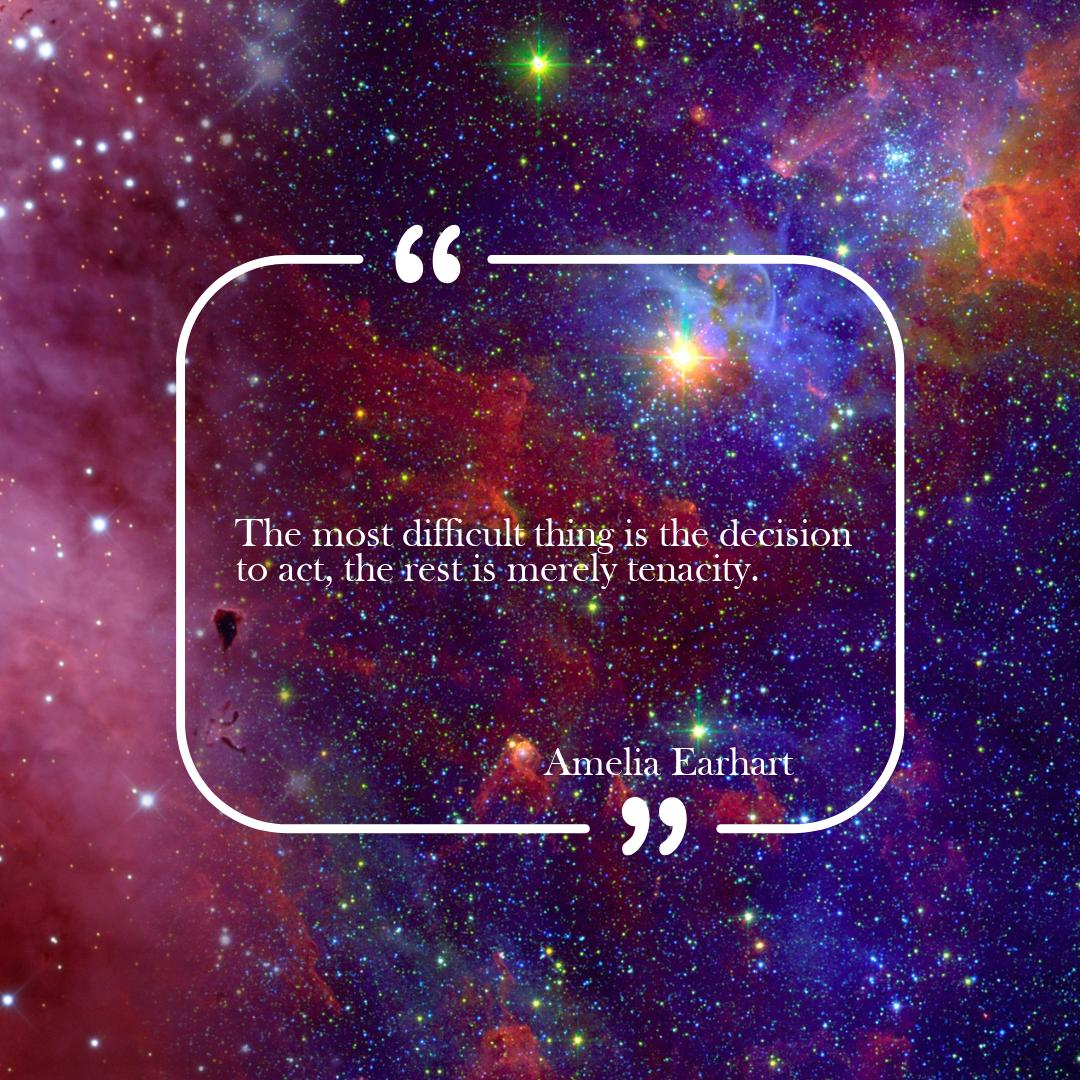
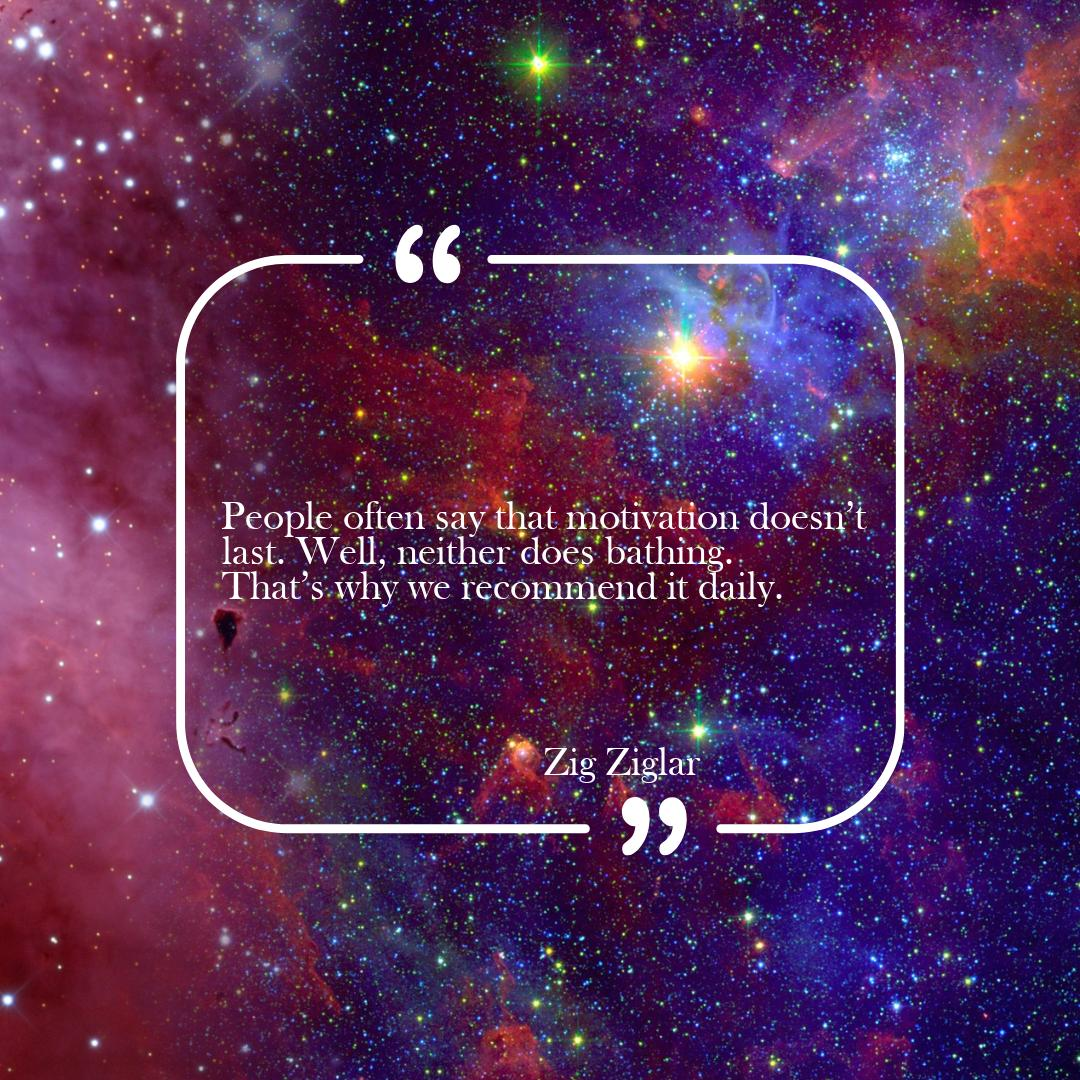
making n be dynamic

Changed region(s): [[0.1833, 0.4583, 0.7944, 0.5806], [0.4889, 0.6722, 0.7333, 0.7333]]

diff --git a/main.py b/main.py
@@ -5,9 +5,18 @@ import textwrap
 import os
 #from dotenv import load_dotenv
 from instagrapi import Client
+from datetime import datetime
+
+def days_passed_since(date_str):
+    current_date = datetime.now().date()
+    target_date = datetime.strptime(date_str, '%d/%m/%Y').date()
+    days_passed = (target_date - current_date).days
+    return days_passed
+
+target_date_str = '26/9/2023'
+n = days_passed_since(target_date_str)
 
 #load_dotenv()
-n = 7
 
 # get quote
 def get_quote(n: int) -> str:
@@ -43,13 +52,11 @@ frame.save("quote.jpg", format="JPEG")
 
 
 # Post to IG
-#username = os.getenv("IG_USERNAME")
-#password = os.getenv("IG_PASSWORD")
+username = os.getenv("IG_USERNAME")
+password = os.getenv("IG_PASSWORD")
 
-username = os.environ.get("IG_USERNAME")
-password = os.environ.get("IG_PASSWORD")
 
 client = Client()
 client.login(username=username, password=password)
 
-client.photo_upload("quote.jpg", "test")
+client.photo_upload("quote.jpg", f"day {n}")
